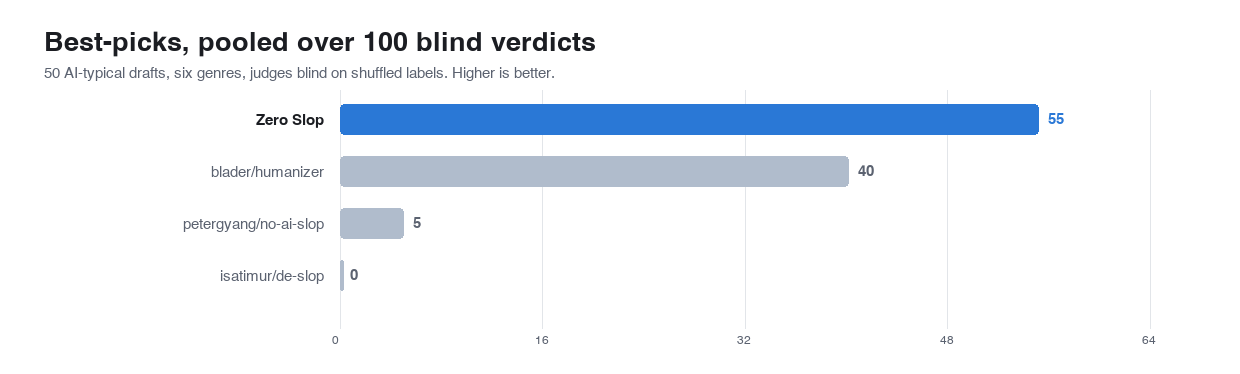
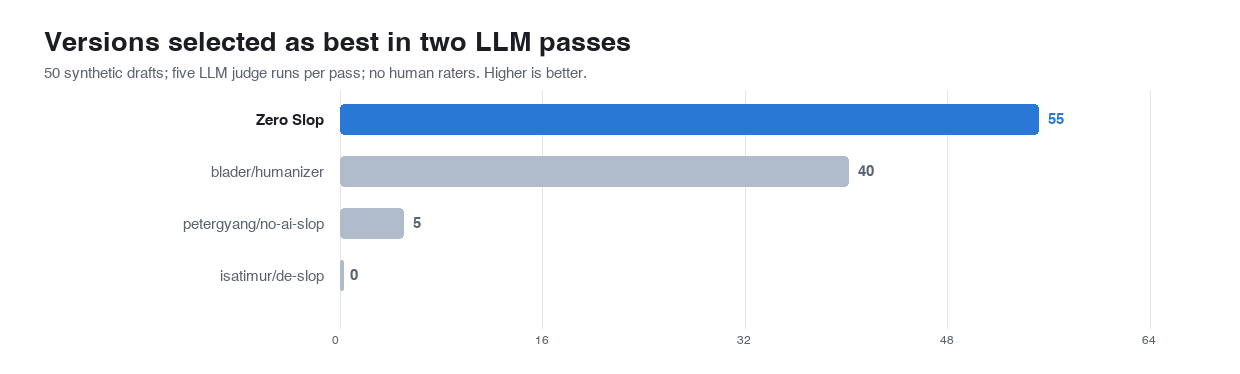
Clarify the benchmark and LLM evaluators

Changed region(s): [[0.0306, 0.0882, 0.521, 0.1471], [0.0306, 0.1765, 0.4903, 0.2353]]

diff --git a/EVALUATION.html b/EVALUATION.html
@@ -93,18 +93,19 @@ a { color: var(--accent); }
 <div class="sheet">
 <p class="eyebrow">Evaluation report · 2026-08-03</p>
 <h1>Zero Slop: what survived testing</h1>
-<p class="dek">Six methods, 50 drafts, two independent judging passes, an adversarial red-team, and a replication that broke the headline number. Everything below is measured, including the parts that went badly.</p>
+<p class="dek">Six methods, 50 drafts, two repeated LLM rating passes, an adversarial red-team, and a replication that broke the headline number. Everything below is measured, including the parts that went badly.</p>
 
 <div class="metrics">
   <div class="metric"><div class="v acc">55/100</div><div class="l">best-picks, pooled</div></div>
-  <div class="metric"><div class="v bad">0.12</div><div class="l">judge kappa</div></div>
+  <div class="metric"><div class="v bad">0.12</div><div class="l">LLM-pass kappa</div></div>
   <div class="metric"><div class="v good">9.5</div><div class="l">v1.2 detector score</div></div>
   <div class="metric"><div class="v good">6</div><div class="l">red-team holes closed</div></div>
 </div>
 
 <h2><span class="n">01</span>The finding that matters most</h2>
-<p>The first blind judging pass gave Zero Slop 32 of 50 best-picks. We then re-ran the identical pass — same rewrites, same shuffled labels, five fresh judges — and got 23 of 50. An eighteen-point swing on unchanged text.</p>
-<p>Cohen's kappa on the winner choice is <b>0.12</b>, with per-item agreement at 52 percent. Judges barely agree on which rewrite is best. That means every single-run headline in this product category, including the one we published first, is noise dressed as a result.</p>
+<p>No human raters took part. Each pass used five fresh LLM judge runs from the same model family, one for each ten-draft packet. The model saw the writing brief, source draft, factual inventory, and four rewrites behind shuffled labels. It rated human-likeness, voice, fidelity, craft, and platform fit, flagged fabrication, and selected the best and worst version.</p>
+<p>The first pass gave Zero Slop 32 of 50 best-picks. Repeating the pass with the same text and label mapping but fresh model runs produced 23 of 50. Cohen's kappa on the winner choice is <b>0.12</b>, with per-item agreement at 52 percent. The ratings are unstable enough that a single-pass result should not be treated as a ranking.</p>
+<p class="fine">The public harness preserves the packets, shuffle key, raw scores, and aggregation code. It does not preserve the exact judge model and version, inference settings, or full evaluation prompt, so the LLM ratings cannot be reproduced exactly.</p>
 <div class="callout">
 <p><b>What survives replication.</b> Pooled across 100 verdicts: Zero Slop 55, blader/humanizer 40, petergyang/no-ai-slop 5, isatimur/de-slop 0. Zero Slop wins the plurality against a 25 percent chance rate (p = 1.7 × 10<sup>-10</sup>). Against blader specifically it is <b>not statistically separable</b> (p = 0.15). The ranking order held in both runs; only the margin moved.</p>
 </div>
@@ -188,14 +189,14 @@ a { color: var(--accent); }
 </table>
 </div>
 
-<p><b>Read the word count column.</b> Every other method shrinks the draft: stop-slop by 27 percent, the stacked pipeline by 28. Zero Slop v1.2 lands at the original's exact length while removing every tell. That is the difference between replacing slop with substance and deleting until the tells are gone, and it is the one metric that separates editing from compression.</p>
+<p><b>Read the word count column.</b> Every other method shrinks the draft: stop-slop by 27 percent, the stacked pipeline by 28. Zero Slop v1.2 has the same mean length as the originals. That shows its lower detector score did not come from aggregate shortening; it does not, by itself, establish better substance.</p>
 
-<h2><span class="n">03</span>Where the judges disagreed with the meter</h2>
-<p>The most aggressive cutter removes the most surface tells and still finished last with judges: stop-slop scored 17.4 on the detector and took 27 worst-picks. Surface-clean and well-written are different properties, which is the entire argument for keeping a judgment pass alongside the meter.</p>
+<h2><span class="n">03</span>Where the LLM ratings disagreed with the meter</h2>
+<p>de-slop received 27 worst-picks in the first LLM pass even though it removed many surface tells. Surface cleanliness and writing quality are different measurements; neither the meter nor the model ratings should stand in for the other.</p>
 
 <figure>
-<figcaption>Figure 3 · Judge dimension means, run one</figcaption>
-<svg viewBox="0 0 640 658" role="img" aria-label="Judge dimension means, round one" class="chart">
+<figcaption>Figure 3 · LLM rating means, run one</figcaption>
+<svg viewBox="0 0 640 658" role="img" aria-label="LLM rating dimension means, round one" class="chart">
 <line x1="257.5" y1="24" x2="257.5" y2="624" class="grid"/>
 <text x="257.5" y="642" class="axis" text-anchor="middle">2</text>
 <line x1="365.0" y1="24" x2="365.0" y2="624" class="grid"/>
@@ -304,12 +305,12 @@ a { color: var(--accent); }
 
 <h2><span class="n">05</span>Takeaways</h2>
 <ul class="rules">
-<li><b>Publish the disagreement.</b> A benchmark that replicates itself and reports the swing is worth more than one that crowns its author. This is the only evaluation in the category that did.</li>
-<li><b>Trust computed metrics over judged ones.</b> Kappa 0.12 versus deterministic scores that never move. Use judges for direction, meters for magnitude.</li>
-<li><b>Length preservation is the honest signal.</b> Anyone can hit a low tell count by cutting. Hitting it at the original length is the harder and more useful result.</li>
-<li><b>Every tool in this category is under-tested.</b> None of the five alternatives ships an evaluation at all. The bar to clear is low; the bar worth setting is not.</li>
-<li><b>The failures taught more than the wins.</b> A fabricated feeling caught by two independent judges, a scorer that convicted Lincoln, an evasion the skill's own rules encouraged — each became a rule that now runs on every draft.</li>
+<li><b>Report the disagreement.</b> The same rewrites produced materially different best-pick counts in two LLM passes.</li>
+<li><b>Keep the measurements separate.</b> The meter is repeatable but narrow. The LLM ratings cover broader qualities but were unstable.</li>
+<li><b>Check for deletion.</b> Word count helps reveal a rewrite that lowers its tell count mainly by cutting, but preserved length does not prove preserved substance.</li>
+<li><b>Use a larger external corpus next.</b> Fifty synthetic drafts from the project author cannot support a general accuracy or quality claim.</li>
+<li><b>Turn failures into tests.</b> A fabricated feeling flagged in both LLM passes, a scorer that convicted Lincoln, and a scoring-evasion bug each led to a regression check.</li>
 </ul>
 
-<footer>Zero Slop evaluation · harness, corpus, judge packets and scripts ship in the repository · MIT</footer>
+<footer>Zero Slop evaluation · harness, corpus, LLM rating packets and scripts ship in the repository · MIT</footer>
 </div>

diff --git a/bench/replication.py b/bench/replication.py
@@ -1,5 +1,5 @@
 #!/usr/bin/env python3
-"""Replication analysis: does 32/50 hold when independent judges re-score
+"""Replication analysis: does 32/50 hold when fresh LLM judge runs re-score
 the identical rewrites with the identical shuffled labels?
 
 Reports run-to-run best-pick tallies, per-item agreement (how often the two
@@ -66,7 +66,7 @@ r1_picks, r1_dims, r1_fabs, n1 = load("")
 r2_picks, r2_dims, r2_fabs, n2 = load("rep2-")
 
 print("=" * 66)
-print("REPLICATION: same 50 rewrites, same shuffled labels, fresh judges")
+print("REPLICATION: same 50 rewrites and labels, fresh LLM judge runs")
 print("=" * 66)
 t1 = tally(r1_picks)
 print(f"\nRun 1 best-picks (n={n1}): {t1}")

diff --git a/bench/make_charts.py b/bench/make_charts.py
@@ -128,8 +128,8 @@ def render(datasets):
     out = []
     out.append(_hbar(
         ASSETS / "bench-bestpicks.png",
-        "Best-picks, pooled over 100 blind verdicts",
-        "50 AI-typical drafts, six genres, judges blind on shuffled labels. Higher is better.",
+        "Versions selected as best in two LLM passes",
+        "50 synthetic drafts; five LLM judge runs per pass; no human raters. Higher is better.",
         datasets["best_picks"], "Zero Slop"))
     out.append(_hbar(
         ASSETS / "bench-detector.png",

diff --git a/README.md b/README.md
@@ -315,40 +315,53 @@ sends the draft.
 Online learning changes only private detection evidence, preferred fixes, and personal
 voice profiles. It does not rewrite `SKILL.md` or silently alter the shared skill.
 
-## Does it actually work
+## What the benchmark can and cannot show
 
-We ran it head to head against three of the four projects it builds on: 50 AI-heavy
-drafts across six kinds of writing, each rewritten by Zero Slop and those three tools,
-then scored by judges who could not see which tool produced which version. The fourth,
-stop-slop, appears in the detector comparison below but was not included in the blind
-judging packets. Treat this as a careful study rather than a verdict. We reproduced the
-competitors' outputs from their published prompts instead of running their live
-products, and only our rewrites were tuned against a scorecard, so the field is not
-perfectly level.
+This is a small, synthetic comparison, not proof that one tool is best. We wrote 50
+AI-heavy drafts across six kinds of writing and produced four rewrites of each: Zero
+Slop, blader/humanizer, petergyang/no-ai-slop, and isatimur/de-slop. We recreated the
+other projects' outputs from their published prompts instead of running their live
+products. Only the Zero Slop rewrites were tuned against this benchmark's scorecard.
+[hardikpandya/stop-slop](https://github.com/hardikpandya/stop-slop) appears in the
+detector chart below but was not part of the blinded comparison.
 
-Across 100 blind picks, judges preferred the Zero Slop version more often than any
-other.
+### Who did the judging
 
-![Best-picks, pooled over 100 blind verdicts: Zero Slop 55, blader 40, no-ai-slop 5, de-slop 0](assets/bench-bestpicks.png)
+No human raters took part. The benchmark records identify the evaluators only as LLM
+runs from one model family. Each of the two passes used five separate runs, one for each
+ten-draft packet. The model received the writing brief, source draft, factual inventory,
+and four rewrites labeled A through D. The method names were shuffled and hidden. It
+scored each rewrite from 1 to 10 for human-likeness, voice, fidelity, writing craft, and
+platform fit. It also flagged fabrication and selected the best and worst version. The
+second pass used the same text and label mapping but fresh model runs.
 
-The result is narrower than the bar looks. In the pooled count, Zero Slop led blader's
-humanizer 55 picks to 40 and clearly beat the other two. The two rounds told different
-stories, however: Zero Slop received 32 picks in the first and 23 in the second, while
-blader received 18 and 22. Winner agreement across rounds was 52% (Cohen's kappa 0.12),
-and the confidence intervals overlapped. Treat the pooled lead as suggestive, not
-decisive.
+The repository includes the packets, shuffle key, and resulting scores. It does not
+preserve the exact judge model and version, inference settings, or full evaluation
+prompt. That omission prevents an exact reproduction of the judging and limits what
+the result can support.
 
-A steadier measure is how much of the AI register each tool removes. This is scored by
-Zero Slop's own detector, so read it as register stripped, not an independent grade.
+The model selected Zero Slop as best for 32 of 50 drafts in the first pass and 23 in
+the second. It selected blader/humanizer for 18 and 22. Across both passes, the counts
+were 55 and 40, but the passes chose the same winner on only 26 of 50 drafts. Cohen's
+kappa was 0.12, the confidence intervals overlapped, and the head-to-head difference
+was not statistically significant (p = 0.15). These data show that the two systems were
+competitive in this setup. They do not establish a general winner.
+
+![Versions selected as best across two blinded LLM passes: Zero Slop 55, blader 40, no-ai-slop 5, de-slop 0](assets/bench-bestpicks.png)
+
+The second chart measures how much of the AI register each rewrite leaves behind. Zero
+Slop's own detector produces these numbers, so they are useful for checking the meter's
+target, not for independently grading Zero Slop against other tools.
 
 ![AI register remaining after de-slop, lower is cleaner: Zero Slop 9.8 versus 15.7 to 23.4 for others, from 69.0 for the raw drafts](assets/bench-detector.png)
 
-The last test is the one a writer should care about most: can the tool tell obvious
-slop from obvious human writing? Across LinkedIn, blogs, Reddit, newsletters, and short
-social posts it separated the two every time, with no overlap. We wrote both piles,
-though, so it shows the tool agreeing with an obvious call, not that it will judge every
-draft in the wild. A separate 1,000-document performance test guards speed; CI fails if
-the batch takes longer than 60 seconds.
+In a separate discrimination test across LinkedIn, blogs, Reddit, newsletters, and
+short social posts, the scorer separated the obvious-slop samples from the known-human
+samples without overlap. We wrote that test set ourselves. It is a regression check for
+easy cases, not an accuracy estimate for writing in the wild. A separate 1,000-document
+test guards speed; CI fails if the batch takes longer than 60 seconds. The full inputs,
+rewrites, anonymized packets, raw ratings, and analysis scripts are in the
+[benchmark harness](bench/).
 
 ## Built on good work
 

diff --git a/bench/README.md b/bench/README.md
@@ -7,7 +7,7 @@ Everything needed to reproduce, contest, or extend the evaluation in
   5 X/Twitter, 4 email, 3 research), each with the brief and ground-truth
   facts used for fidelity checking.
 - `outputs/` — every method's rewrites, one file per method per half.
-- `judging/` — blind judge packets, the shuffle key, run-one scores
+- `judging/` — blinded LLM-rating packets, the shuffle key, run-one scores
   (`scores-*.json`) and the replication scores (`rep2-scores-*.json`).
 - `replication.py` — run-to-run tally, per-item agreement, Cohen's kappa,
   Wilson intervals. This is the script that moved the headline from 32/50 to
@@ -24,16 +24,37 @@ python3 bench/replication.py          # agreement and pooled statistics
 python3 bench/aggregate.py            # per-method scorecard
 ```
 
+## How the judging worked
+
+No human raters took part. The 50 examples were divided into five packets of ten. For
+each item, the packet contained the writing brief, original draft, factual inventory,
+and four rewrites labeled A through D. A seeded shuffle hid which method produced each
+rewrite.
+
+Each pass used five fresh LLM judge runs from the same model family, one per packet. A
+judge scored every rewrite from 1 to 10 on five labeled dimensions: human-likeness,
+voice, fidelity, writing craft, and platform fit. It also marked possible fabrication
+and selected the best and worst rewrite. A second set of five LLM runs reviewed the
+same packets with the same label mapping. That produced two ratings for each of the 50
+items, or 100 item-level selections in total.
+
+The repository preserves the packets, shuffle key, raw scores, and aggregation code.
+It does not preserve the exact judge model and version, inference settings, or full
+evaluation prompt. The ratings therefore cannot be reproduced exactly from the public
+harness. Treat them as a small, model-specific experiment rather than human evidence or
+a general ranking of the tools.
+
 ## Adding a method
 
 Drop `outputs/<yourmethod>_h1.json` and `_h2.json` (id → rewritten text),
-add the name to the `METHODS` list in `make_packets.py`, rebuild the
-packets, and judge them blind. Pull requests with new methods are welcome,
-including ones that beat Zero Slop — that is what the harness is for.
+add the name to the `METHODS` list in `make_packets.py`, and rebuild the
+packets. To compare results with the existing ratings, document the model,
+version, settings, and complete evaluation prompt used for the new blinded pass.
 
 ## Known limits
 
-Single model family for generation and judging; LLM judges rather than
-human raters; a synthetic corpus we authored; and n = 50, which is small
-enough that only large effects survive. The kappa of 0.12 measured here is
-the reason every claim in the report carries its interval.
+The drafts are synthetic, the evaluation used LLMs rather than human raters, and the
+same model family was used for generation and judging. The corpus has only 50 items.
+Winner agreement between the two passes was 52%, with a Cohen's kappa of 0.12. The
+exact judge configuration and prompt are missing, and competing outputs were recreated
+from published prompts rather than produced by the live tools.

diff --git a/ONE-PAGER.md b/ONE-PAGER.md
@@ -81,20 +81,23 @@ retrain the host model. Shared changes still require review, tests, versioning, 
 release. Each session can check for a newer release with a metadata-only version query.
 That query never sends the draft.
 
-## Does it actually work
+## What we tested
 
-We ran it head to head against three of the four projects it builds on: 50 AI-heavy
-drafts across six kinds of writing. Judges reviewed the rewrites blind. Across 100
-picks, they chose the Zero Slop version most often, 55 to humanizer's 40; no-ai-slop
-received five and de-slop received none. The lead over humanizer was suggestive, not
-decisive. Zero Slop also separated obvious slop from known-human writing with no overlap
-in our test set. A separate 1,000-document test guards speed; CI fails if the batch
-takes longer than 60 seconds.
+We wrote 50 AI-heavy drafts and compared four rewrites of each. No human raters took
+part. The records identify the evaluators only as LLM runs from one model family. Each
+of the two passes used five separate runs. The method names were hidden; the model saw the
+brief, source draft, factual inventory, and four rewrites, then rated human-likeness,
+voice, fidelity, craft, and platform fit.
 
-The caveat matters: our accuracy numbers all come from test writing we created
-ourselves, so they show the tool agreeing with an obvious call, not that it will judge
-every draft reliably. A trustworthy estimate needs about a thousand hand-labeled
-samples, and building that set is next on the list.
+The results moved between passes. The model selected Zero Slop for 32 of 50 drafts in
+the first and 23 in the second; it selected blader/humanizer for 18 and 22. The pooled
+counts were 55 and 40, but the passes agreed on a winner for only 26 drafts, and the
+head-to-head difference was not statistically significant. The public harness also
+omits the exact model, settings, and full prompt. The results show that the two systems
+were competitive on our synthetic set, not that either is generally better. We also
+wrote the scorer's discrimination set, so it serves as a regression check rather than a
+real-world accuracy estimate. A 1,000-document speed check runs in CI and must finish
+within 60 seconds.
 
 ---
 
